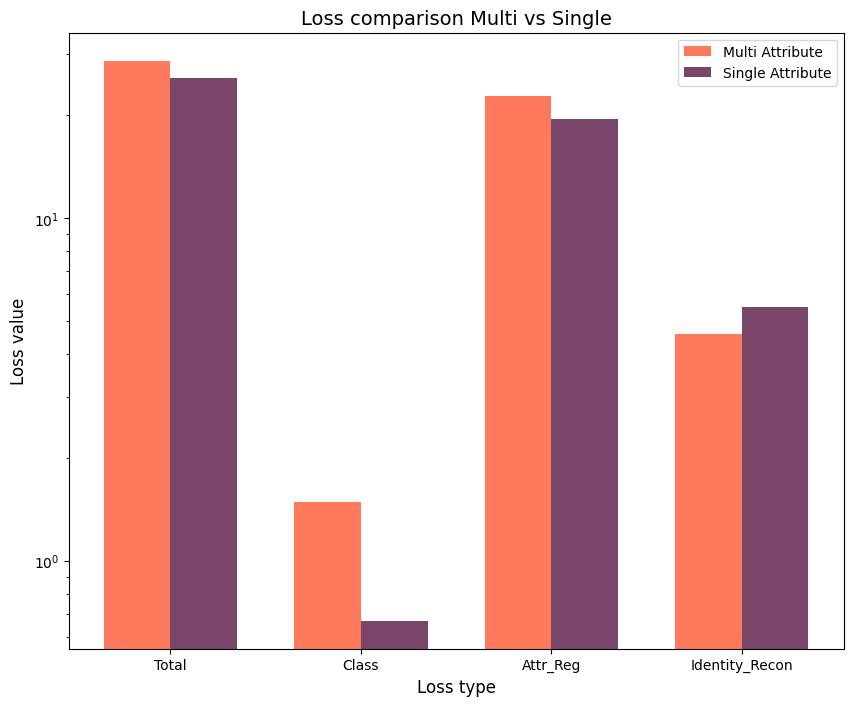
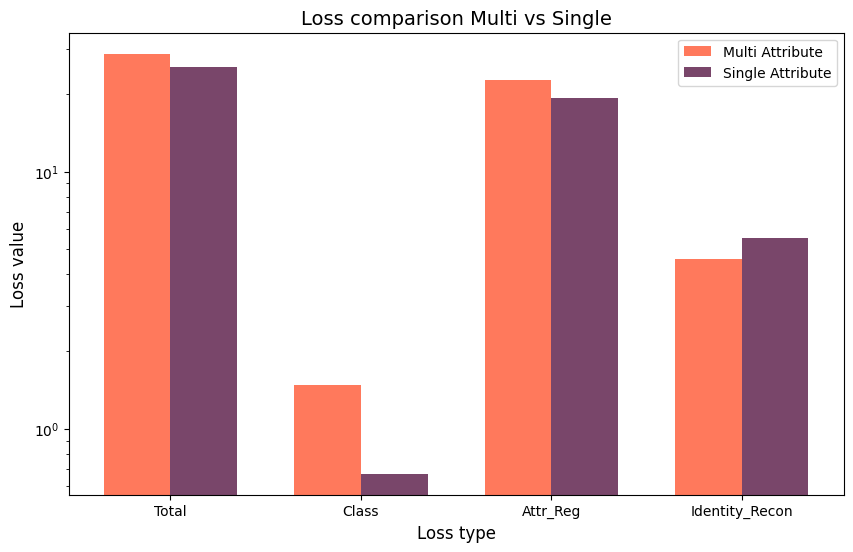
Evaluation minor mock and figsize change

diff --git a/evaluation.py b/evaluation.py
@@ -323,7 +323,11 @@ def plot_overall():
     multi = eval_multi(save_img=False)
     single = eval_single(save_img=False)
 
-    fig, ax = plt.subplots(figsize=(10,8))
+    # Mock values
+    # multi = [1,2,3,4]
+    # single = [1,2,3,4]
+
+    fig, ax = plt.subplots(figsize=(10,6))
     bar_width = 0.35
     opacity = 0.8
     loss_titles = ["Total", "Class", "Attr_Reg", "Identity_Recon"]
